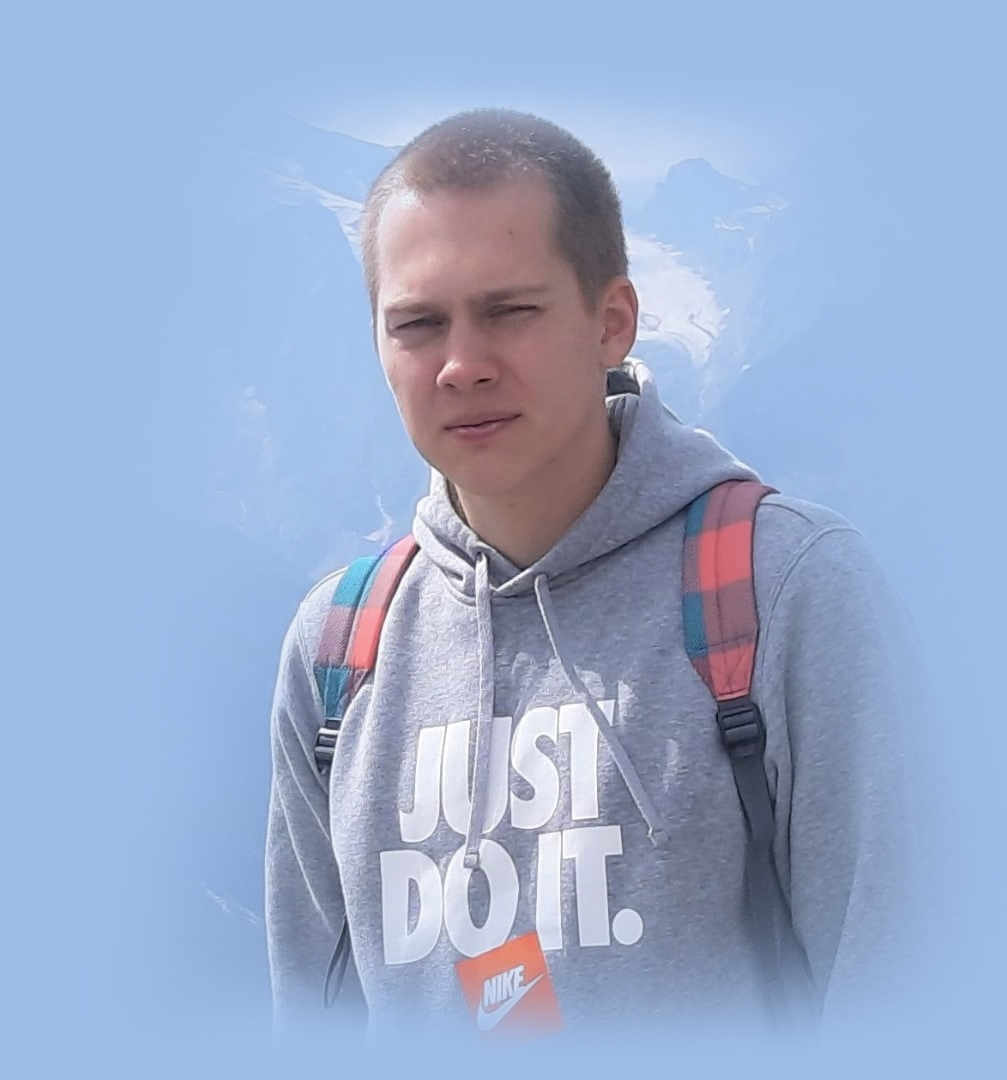
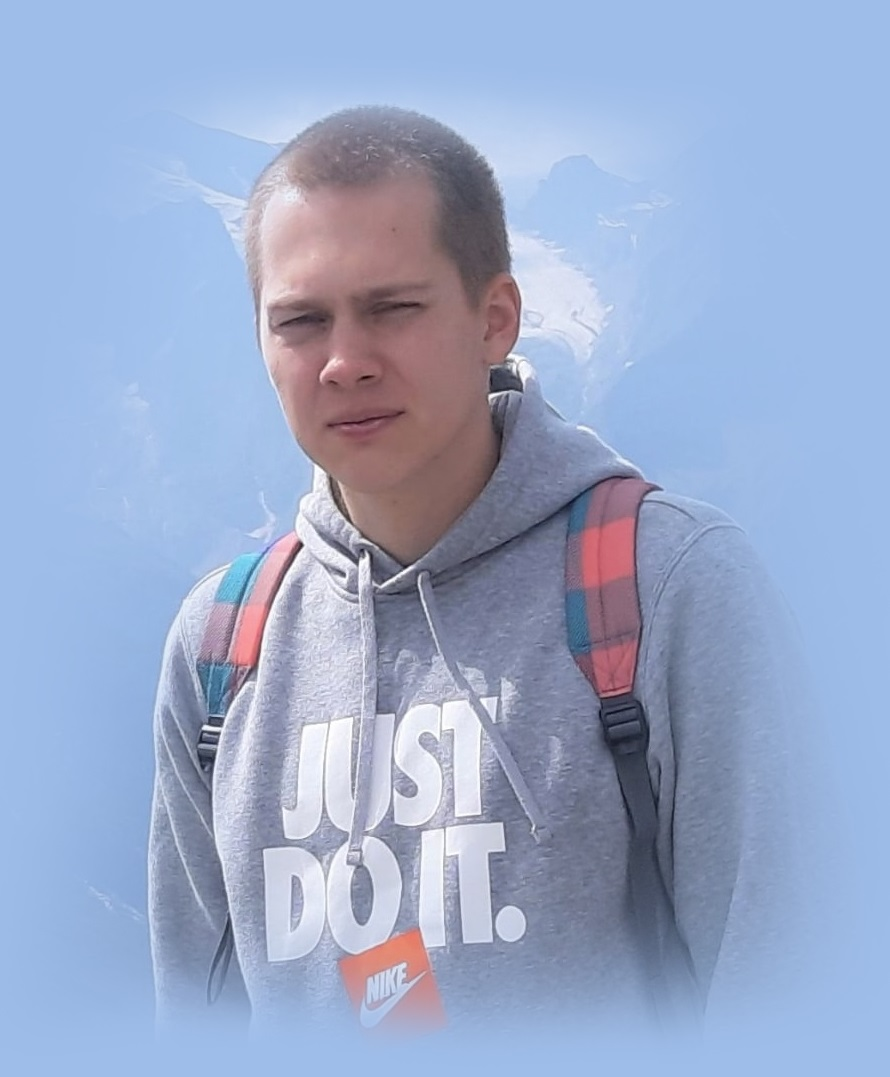
Add files via upload

Changed region(s): [[0.1517, 0.0919, 0.8494, 0.9499], [0.2124, 0.1532, 0.2427, 0.1838]]

diff --git a/style.min.css b/style.min.css
@@ -1,1 +1,1 @@
-body{font-family:sans-serif;background:#9ebde9;overflow-x:hidden}.content{display:-webkit-box;display:-webkit-flex;display:-ms-flexbox;display:flex;-webkit-box-orient:vertical;-webkit-box-direction:normal;-webkit-flex-direction:column;-ms-flex-direction:column;flex-direction:column;-webkit-box-align:center;-webkit-align-items:center;-ms-flex-align:center;align-items:center;text-align:center}img{max-height:80vh;max-width:100%}h1{margin-bottom:0;font-size:-webkit-calc(22px + 20 * ((100vw - 320px) / 1600));font-size:calc(22px + 20 * ((100vw - 320px) / 1600))}h2{margin-top:0;text-transform:uppercase;letter-spacing:10px;font-size:-webkit-calc(12px + 14 * ((100vw - 320px) / 1600));font-size:calc(12px + 14 * ((100vw - 320px) / 1600))}
+body{font-family:sans-serif;background:#9ebde9;overflow-x:hidden}.content{display:-webkit-box;display:-webkit-flex;display:-ms-flexbox;display:flex;-webkit-box-orient:vertical;-webkit-box-direction:normal;-webkit-flex-direction:column;-ms-flex-direction:column;flex-direction:column;-webkit-box-align:center;-webkit-align-items:center;-ms-flex-align:center;align-items:center;text-align:center}img{max-height:70vh;max-width:100%}a{color:#000;text-decoration:none}h1{margin-bottom:0;font-size:-webkit-calc(22px + 20 * ((100vw - 320px) / 1600));font-size:calc(22px + 20 * ((100vw - 320px) / 1600))}h2{margin-top:0;text-transform:uppercase;letter-spacing:10px;font-size:-webkit-calc(12px + 14 * ((100vw - 320px) / 1600));font-size:calc(12px + 14 * ((100vw - 320px) / 1600))}.description{text-align:center;color:#eee;max-width:300px;margin:auto;margin-bottom:20px}.message{display:-webkit-box;display:-webkit-flex;display:-ms-flexbox;display:flex;margin:auto;-webkit-box-pack:center;-webkit-justify-content:center;-ms-flex-pack:center;justify-content:center;color:#eee;padding:5px;background:rgba(0,0,0,0.1);-webkit-border-radius:3px;border-radius:3px;max-width:230px}

diff --git a/index.html b/index.html
@@ -13,16 +13,31 @@
    <link rel="stylesheet" href="style.min.css">
 </head>
 <body>
-   <div class="content">
-      <h1>Александр Ярославцев</h1>
-      <h2>веб-разработчик</h2>
-      <div class="bg"></div>
-      <img src="photo.jpg" alt="Александр Ярославцев">
-   </div>
-   <script>
+   <a href="https://vk.com/a1exweb">
+      <div class="content">
+         <h1>Александр Ярославцев</h1>
+         <h2>веб-разработчик</h2>
+         <div class="bg"></div>
+         <img src="photo.jpg" alt="">
+      </div>
+   </a>
+   <!-- <script>
       setTimeout(function () {
          document.location='https://vk.com/a1exweb';
       }, 1000);   
+   </script> -->
+
+<p class="description">Разработка одностраничных сайтов на заказ, цена расчитывается индивидуально по Вашей заявке!</p>
+
+<a class="message" href="https://vk.com/im?media=&sel=-186401305&v=">Написать по важному вопросу</a>
+
+<!-- Put this script tag to the <head> of your page -->
+   <script type="text/javascript" src="https://vk.com/js/api/openapi.js?168"></script>
+
+   <!-- Put this div tag to the place, where the Community messages block will be -->
+   <div id="vk_community_messages"></div>
+   <script type="text/javascript">
+     VK.Widgets.CommunityMessages("vk_community_messages", 76815501, {tooltipButtonText: "Заказать сайт", expandTimeout: 10000});
    </script>
 </body>
 </html>

diff --git a/style.sass b/style.sass
@@ -16,8 +16,11 @@ body
     align-items: center
     text-align: center
 img
-    max-height: 80vh
+    max-height: 70vh
     max-width: 100%
+a
+    color: #000
+    text-decoration: none
 h1
     margin-bottom: 0
     +adaptiv-font(42, 22)
@@ -26,3 +29,18 @@ h2
     text-transform: uppercase
     letter-spacing: 10px
     +adaptiv-font(26, 12)
+.description
+    text-align: center
+    color: #eee
+    max-width: 300px
+    margin: auto
+    margin-bottom: 20px
+.message
+    display: flex
+    margin: auto
+    justify-content: center
+    color: #eee
+    padding: 5px
+    background: rgba(#000,.1)
+    border-radius: 3px
+    max-width: 230px
